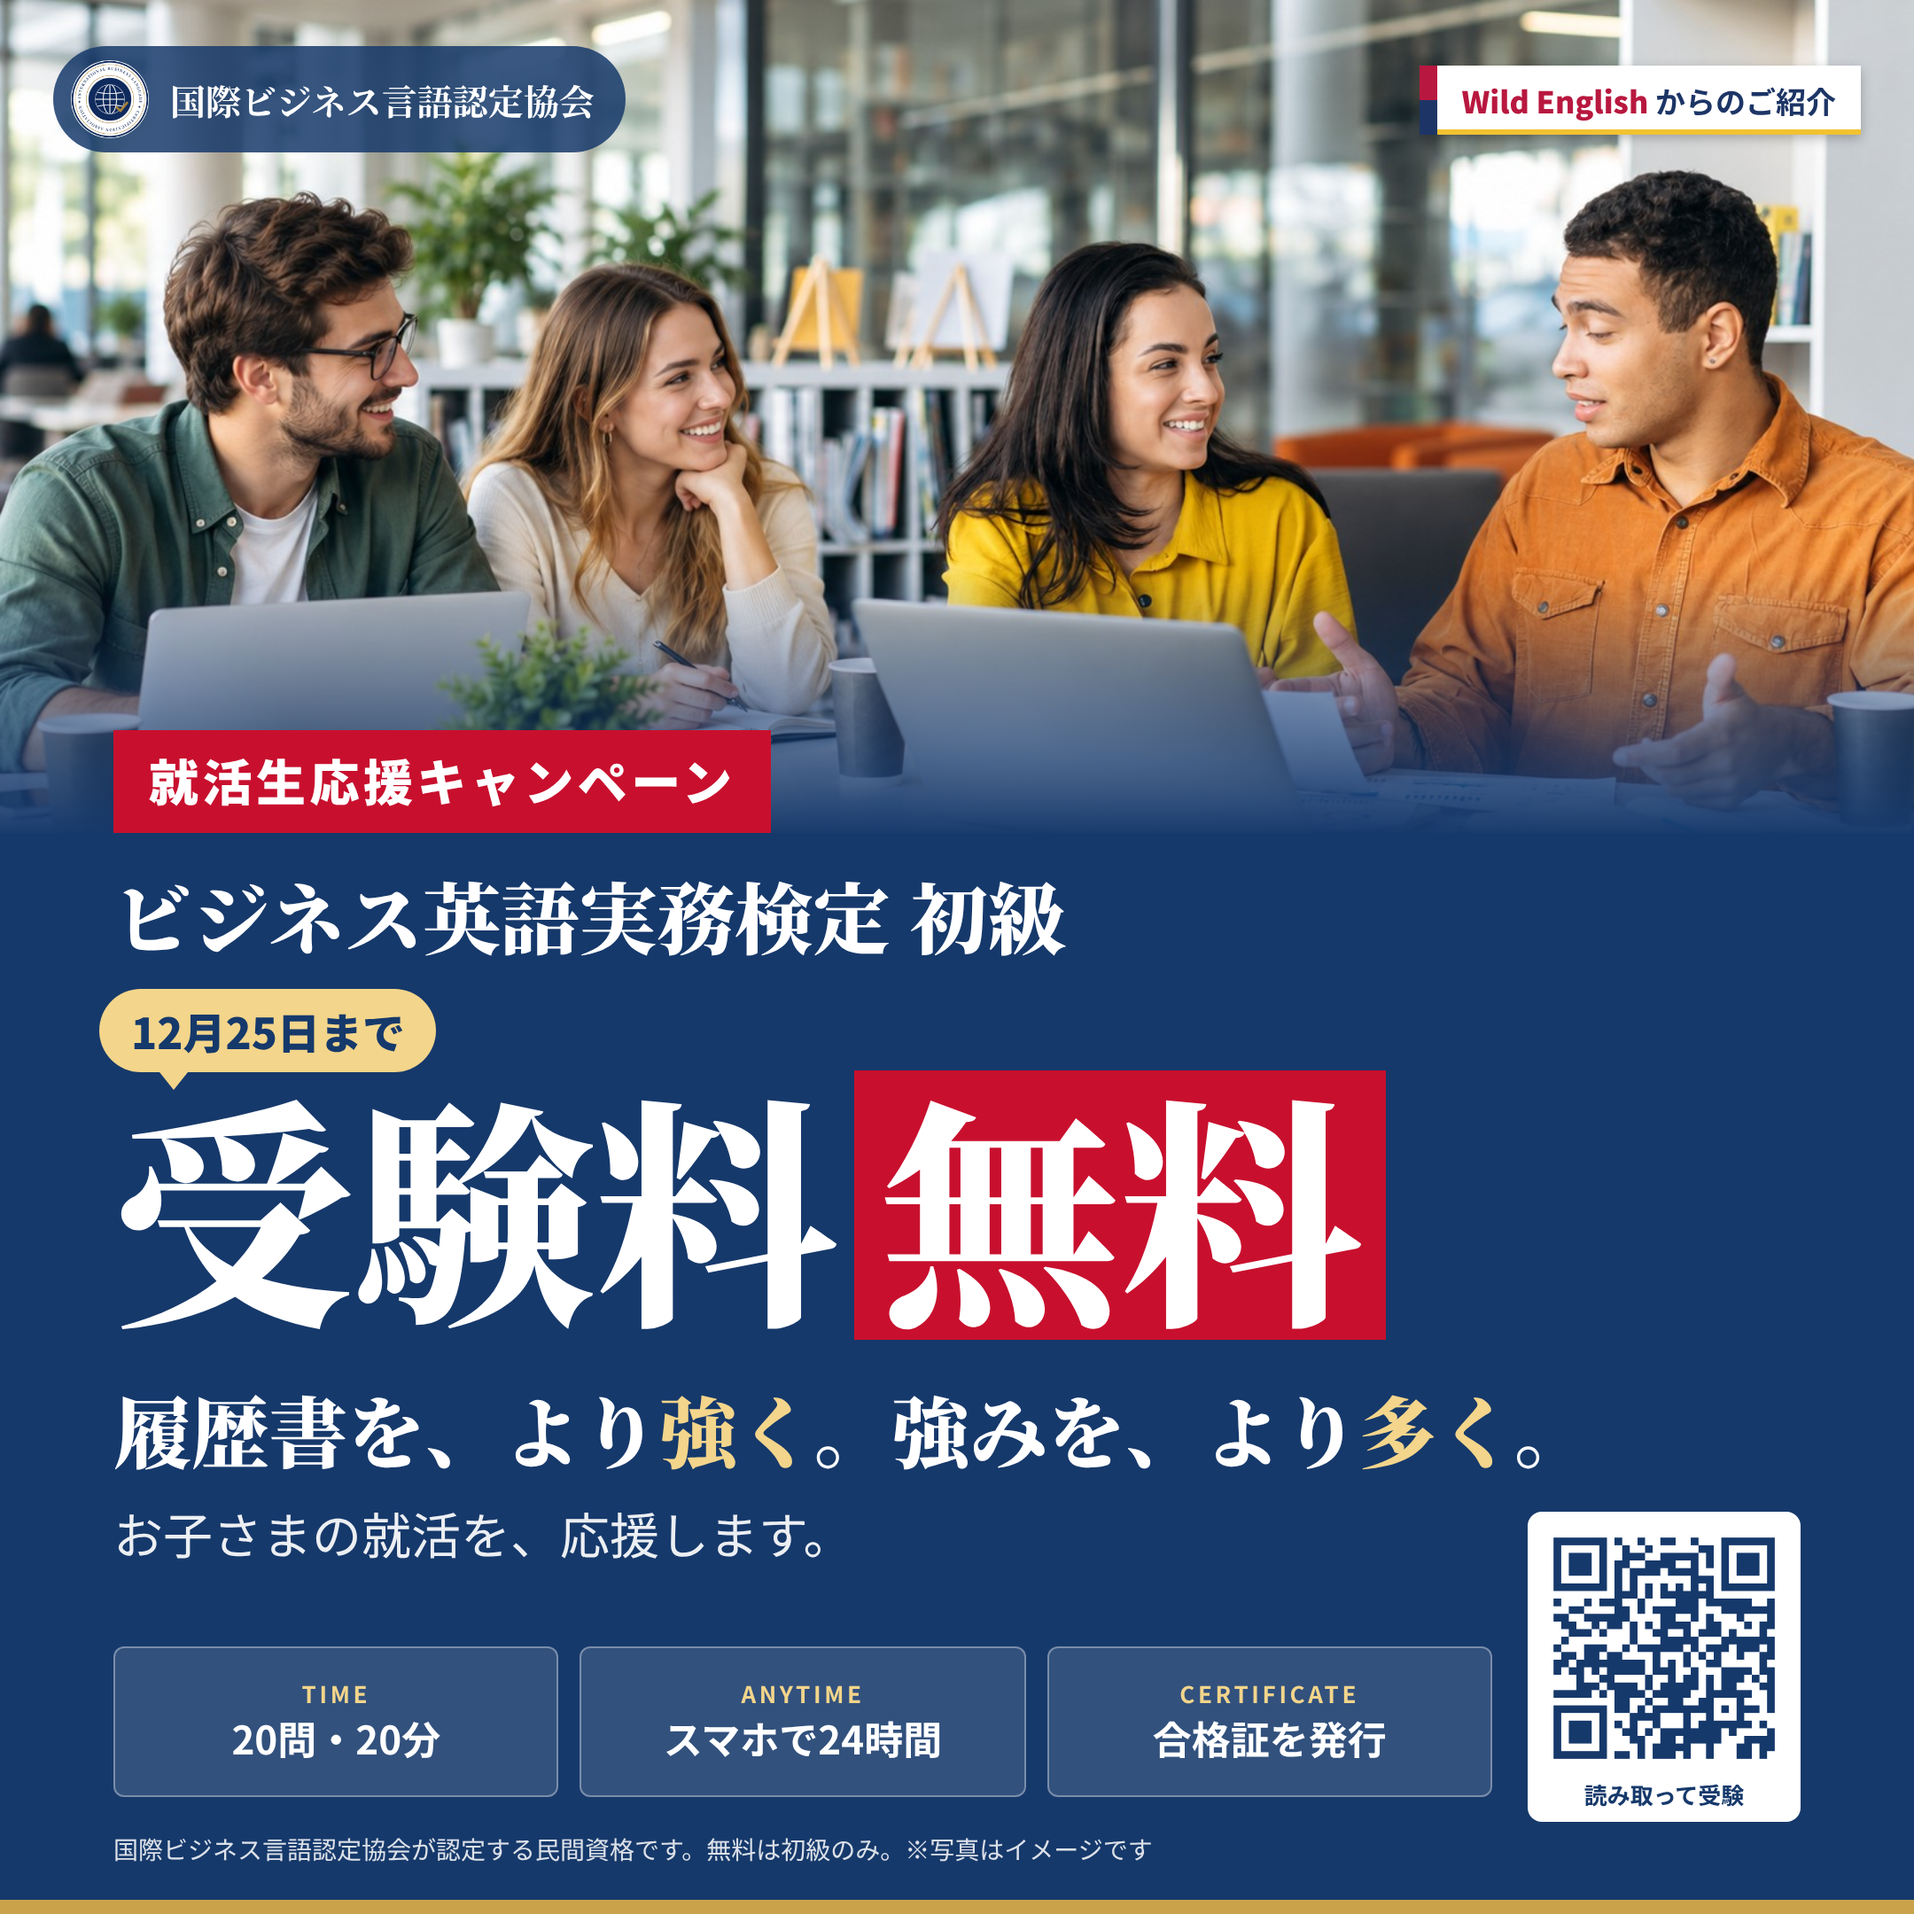
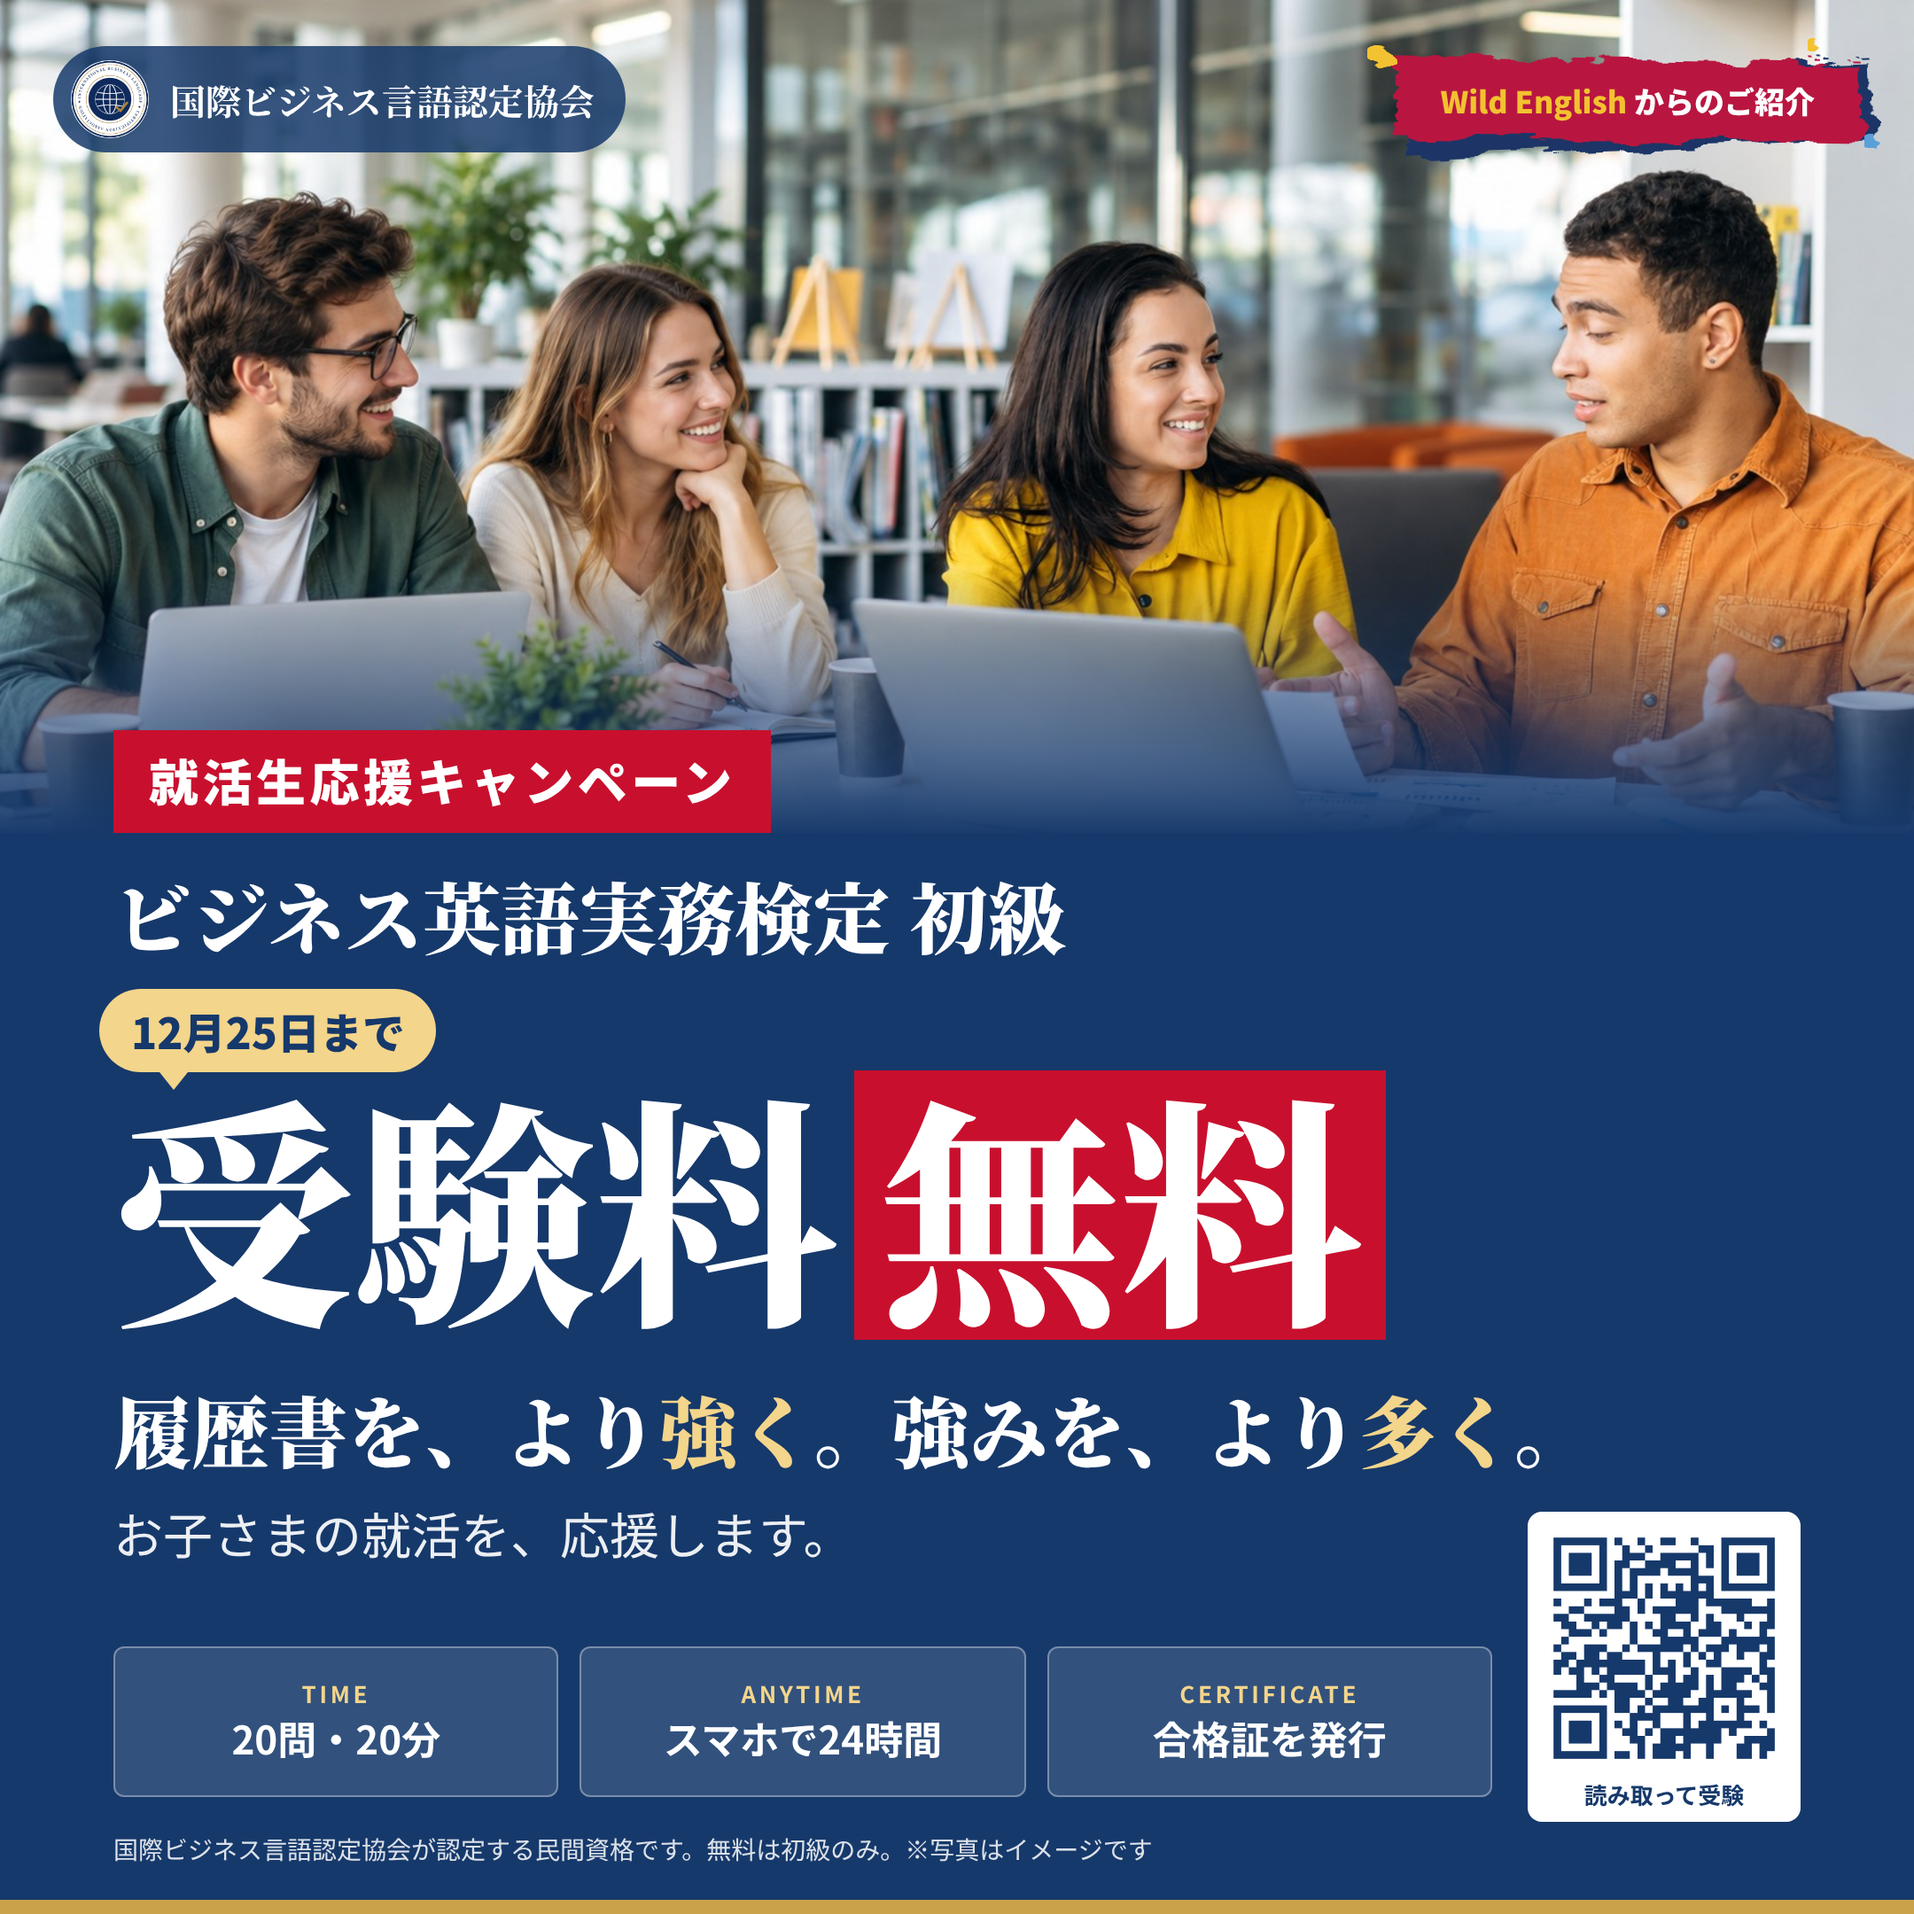
FB広告：Wild Englishの札をペンキ風に
Claude-Session: https://claude.ai/code/session_01T3NaLWbuuvRT9b8SoudneK

Changed region(s): [[0.7134, 0.0, 0.9926, 0.0931]]

diff --git a/assets/本陣へ/fb_src/combo_1080.html b/assets/本陣へ/fb_src/combo_1080.html
@@ -29,13 +29,16 @@ body{width:1080px;height:1080px;position:relative;overflow:hidden;font-family:"N
 .qrw span{display:block;color:var(--navy);font-size:13px;font-weight:700;margin-top:2px}
 .note{position:absolute;left:64px;bottom:26px;font-size:14px;opacity:.85}
 .line{position:absolute;left:0;right:0;bottom:0;height:8px;background:#c9a24a}
-.pr{background:#fff !important;border:none !important;color:#1d3566 !important;font-weight:700;position:relative;padding-left:24px !important;box-shadow:0 2px 6px rgba(0,0,0,.25)}
-.pr:before{content:"";position:absolute;left:0;top:0;bottom:0;width:10px;background:linear-gradient(180deg,#b8183f 0 50%,#1d3566 50% 100%)}
-.pr:after{content:"";position:absolute;left:10px;right:0;bottom:0;height:3px;background:#f2c230}
-.pr b{color:#b8183f}
-</style></head><body>
+.pr{position:relative;background:none !important;border:none !important;box-shadow:none !important;color:#fff !important;font-weight:900 !important;padding:10px 26px !important;z-index:1}
+.pr:before,.pr:after{content:none !important}
+.pr .s1,.pr .s2{position:absolute;inset:0;z-index:-1;filter:url(#paint)}
+.pr .s1{background:#1d3566;transform:rotate(-2deg) translate(6px,5px)}
+.pr .s2{background:#b8183f;transform:rotate(1deg)}
+.pr .dot{position:absolute;border-radius:50%;z-index:-1;filter:url(#paint)}
+.pr b{color:#f2c230 !important}
+</style></head><body><svg width="0" height="0" style="position:absolute"><filter id="paint" x="-10%" y="-30%" width="120%" height="160%"><feTurbulence type="fractalNoise" baseFrequency="0.035 0.12" numOctaves="3" seed="4" result="n"/><feDisplacementMap in="SourceGraphic" in2="n" scale="16" xChannelSelector="R" yChannelSelector="G"/></filter></svg>
 <div class="photo"></div><div class="fade"></div>
-<div class="top"><div class="org"><img src="logo.png"><b>国際ビジネス言語認定協会</b></div><div class="pr"><b>Wild English</b> からのご紹介</div></div>
+<div class="top"><div class="org"><img src="logo.png"><b>国際ビジネス言語認定協会</b></div><div class="pr"><span class="s1"></span><span class="s2"></span><span class="dot" style="width:14px;height:14px;background:#f2c230;left:-14px;top:-8px"></span><span class="dot" style="width:9px;height:9px;background:#5aa0d8;right:-12px;bottom:-6px"></span><span class="dot" style="width:7px;height:7px;background:#f2c230;right:22px;top:-12px"></span><b>Wild English</b> からのご紹介</div></div>
 <div class="main">
 <span class="tag">就活生応援キャンペーン</span>
 <div class="kentei">ビジネス英語実務検定 初級</div>

diff --git a/assets/本陣へ/fb_src/combo_1200x630.html b/assets/本陣へ/fb_src/combo_1200x630.html
@@ -30,13 +30,16 @@ body{width:1200px;height:630px;position:relative;overflow:hidden;font-family:"No
 .qrw{position:absolute;right:36px;bottom:40px;background:#fff;border-radius:6px;padding:4px;text-align:center}
 .qrw img{display:block;width:92px;height:92px}
 .qrw span{display:block;color:#16396b;font-size:10px;font-weight:700;margin-top:1px}
-.pr{background:#fff !important;border:none !important;color:#1d3566 !important;font-weight:700;position:relative;padding-left:24px !important;box-shadow:0 2px 6px rgba(0,0,0,.25)}
-.pr:before{content:"";position:absolute;left:0;top:0;bottom:0;width:10px;background:linear-gradient(180deg,#b8183f 0 50%,#1d3566 50% 100%)}
-.pr:after{content:"";position:absolute;left:10px;right:0;bottom:0;height:3px;background:#f2c230}
-.pr b{color:#b8183f}
-</style></head><body>
+.pr{position:relative;background:none !important;border:none !important;box-shadow:none !important;color:#fff !important;font-weight:900 !important;padding:10px 26px !important;z-index:1}
+.pr:before,.pr:after{content:none !important}
+.pr .s1,.pr .s2{position:absolute;inset:0;z-index:-1;filter:url(#paint)}
+.pr .s1{background:#1d3566;transform:rotate(-2deg) translate(6px,5px)}
+.pr .s2{background:#b8183f;transform:rotate(1deg)}
+.pr .dot{position:absolute;border-radius:50%;z-index:-1;filter:url(#paint)}
+.pr b{color:#f2c230 !important}
+</style></head><body><svg width="0" height="0" style="position:absolute"><filter id="paint" x="-10%" y="-30%" width="120%" height="160%"><feTurbulence type="fractalNoise" baseFrequency="0.035 0.12" numOctaves="3" seed="4" result="n"/><feDisplacementMap in="SourceGraphic" in2="n" scale="16" xChannelSelector="R" yChannelSelector="G"/></filter></svg>
 <div class="bg"></div><div class="shade"></div>
-<div class="top"><div class="org"><img src="logo.png"><b>国際ビジネス言語認定協会</b></div><div class="pr"><b>Wild English</b> からのご紹介</div></div>
+<div class="top"><div class="org"><img src="logo.png"><b>国際ビジネス言語認定協会</b></div><div class="pr"><span class="s1"></span><span class="s2"></span><span class="dot" style="width:14px;height:14px;background:#f2c230;left:-14px;top:-8px"></span><span class="dot" style="width:9px;height:9px;background:#5aa0d8;right:-12px;bottom:-6px"></span><span class="dot" style="width:7px;height:7px;background:#f2c230;right:22px;top:-12px"></span><b>Wild English</b> からのご紹介</div></div>
 <div class="main">
 <span class="tag">就活生応援キャンペーン</span>
 <div class="kentei">ビジネス英語実務検定 初級</div>
